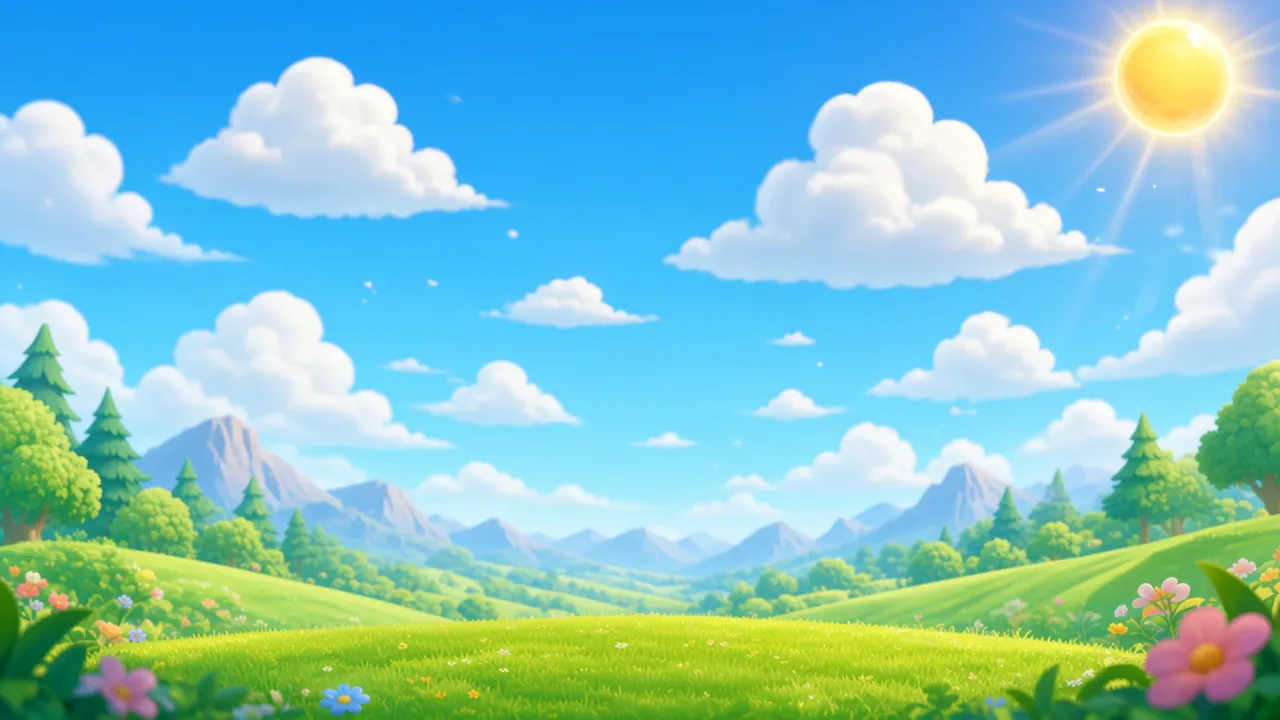
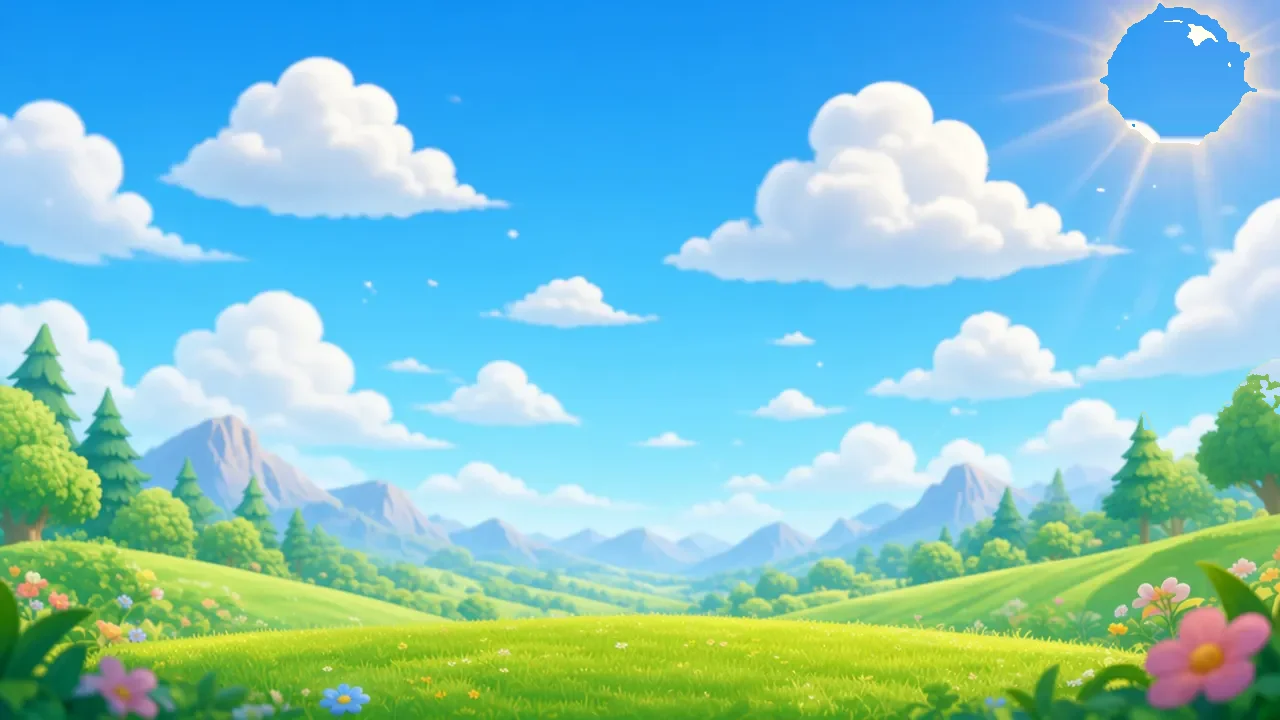
feat(journey): 只留效果图太阳，树根露在草坡上
去掉天空底图里的另一颗太阳，避免重影。草坡改矮，根露在坡上再入土。木牌收成小牌。

Changed region(s): [[0.8438, 0.0, 1.0, 0.2139], [0.9688, 0.4889, 1.0, 0.5806], [0.875, 0.5806, 0.9062, 0.6111]]

diff --git a/frontend/src/components/journey/EntranceTree.tsx b/frontend/src/components/journey/EntranceTree.tsx
@@ -103,7 +103,7 @@ export function EntranceTree({
         src={cloud}
         alt=""
         draggable={false}
-        className="journey-drift pointer-events-none absolute right-[6%] top-[14%] w-[min(24vw,200px)]"
+        className="journey-drift pointer-events-none absolute left-[58%] top-[18%] w-[min(22vw,180px)]"
         style={{ animationDelay: '-11s' }}
       />
       <img
@@ -135,8 +135,8 @@ export function EntranceTree({
         aria-hidden
         className="pointer-events-none absolute inset-x-[-6%] z-[6]"
         style={{
-          bottom: compact ? 36 : 52,
-          height: compact ? '46%' : '48%',
+          bottom: 0,
+          height: compact ? '24%' : '22%',
           background:
             'radial-gradient(ellipse 62% 78% at 50% 100%, #9adf62 0%, #67bc48 36%, #4e9d3c 62%, rgba(78,157,60,0) 74%)',
         }}
@@ -181,9 +181,9 @@ export function EntranceTree({
               );
             })}
             {compact ? null : (
-              <div className="absolute bottom-[36%] left-1/2 w-[42%] min-w-[148px] -translate-x-1/2">
+              <div className="absolute bottom-[14%] left-[54%] w-[148px] -translate-x-1/2">
                 <img src={wood} alt="" draggable={false} className="w-full" />
-                <div className="absolute inset-y-[18%] left-[24%] right-[8%] flex flex-col items-center justify-center text-center text-[11px] font-black leading-4 text-[#5a3412]">
+                <div className="absolute inset-y-[22%] left-[28%] right-[8%] flex flex-col items-center justify-center text-center text-[10px] font-black leading-3 text-[#5a3412]">
                   {sign}
                 </div>
               </div>
@@ -195,7 +195,8 @@ export function EntranceTree({
         src={hill}
         alt=""
         draggable={false}
-        className="pointer-events-none absolute inset-x-[-4%] bottom-0 z-[12] w-[108%] max-w-none"
+        className="pointer-events-none absolute inset-x-0 bottom-0 z-[12] w-full object-cover object-top"
+        style={{ height: compact ? '18%' : '16%' }}
       />
       <img
         src={flowers}
